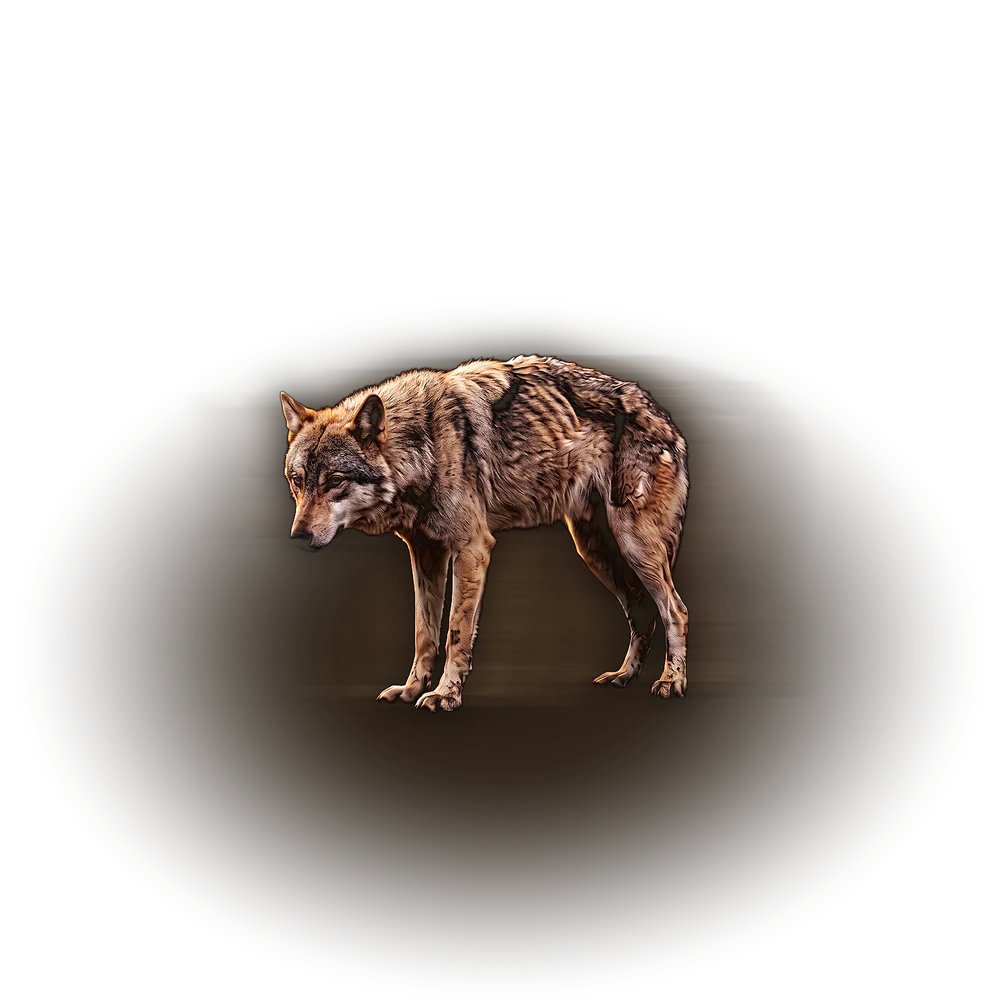
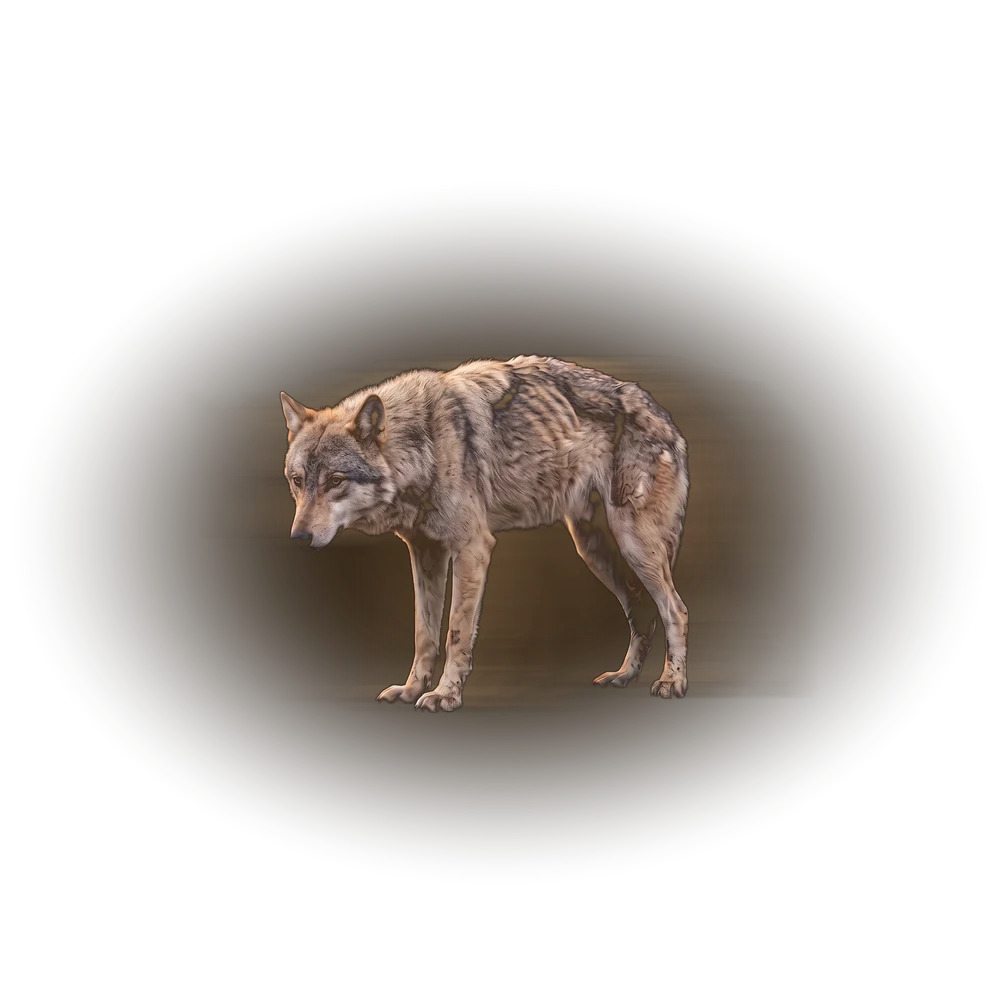
v4.7 revert frames

diff --git a/tools/process_art11.py b/tools/process_art11.py
@@ -1,0 +1,66 @@
+#!/usr/bin/env python3
+"""Round eleven: wolf + smear over a soft warm pool of light that fades out in the frame's own alpha.
+No CSS mask needed: the rim colour is close to the app plate, the alpha reaches zero well inside the
+frame, and the centre is lighter than the plate so it reads as light on the wolf, never a dark ring."""
+import os, sys, numpy as np
+from PIL import Image, ImageFilter
+ROOT = os.path.expanduser("~/Documents/wolf/img")
+ZOOM = {1: 1.04, 2: 1.02, 3: 0.97, 4: 0.98, 5: 1.00, 6: 1.03, 7: 1.06, 8: 1.10, 9: 1.14, 10: 1.18}
+S = 1520; OUT = 1000
+CENTRE = np.array([0x3E, 0x2E, 0x1C], np.float32) / 255   # warm pool under the wolf
+RIM    = np.array([0x22, 0x1A, 0x13], np.float32) / 255   # near the plate tone, where alpha runs out
+
+def hblur(a, k):
+    pad = k // 2; p = np.pad(a, ((0, 0), (pad, pad), (0, 0)), mode="edge")
+    c = np.cumsum(p, axis=1); c = np.concatenate([np.zeros_like(c[:, :1]), c], axis=1)
+    return (c[:, k:] - c[:, :-k]) / k
+
+def key(img):
+    a = np.asarray(img.convert("RGB").filter(ImageFilter.GaussianBlur(0.8)), np.float32)
+    edge = np.concatenate([a[:50].reshape(-1, 3), a[-50:].reshape(-1, 3), a[:, :50].reshape(-1, 3), a[:, -50:].reshape(-1, 3)])
+    bg = np.median(edge, axis=0)
+    d = np.sqrt(((a - bg) ** 2).sum(-1))
+    alpha = np.clip((d - 22) / 40, 0, 1)
+    alpha = np.asarray(Image.fromarray((alpha * 255).astype(np.uint8)).filter(ImageFilter.GaussianBlur(1.0)), np.float32) / 255
+    return np.asarray(img.convert("RGB"), np.float32) / 255, alpha[..., None]
+
+def pool(cy):
+    """Elliptical pool centred on the wolf: colour CENTRE->RIM, alpha 1 -> 0 with a long smooth tail."""
+    y, x = np.mgrid[0:S, 0:S].astype(np.float32)
+    r = np.sqrt(((x - S / 2) / (S * 0.50)) ** 2 + ((y - cy) / (S * 0.36)) ** 2)   # 1.0 = rim
+    t = np.clip(r, 0, 1)[..., None]; t = t * t * (3 - 2 * t)
+    col = CENTRE * (1 - t) + RIM * t
+    a = 1 - np.clip((r - 0.28) / 0.72, 0, 1); a = a * a * (3 - 2 * a)
+    return col, a[..., None]
+
+def stage(n, src, dst):
+    img = Image.open(src).convert("RGB")
+    z = ZOOM[n]; side = int(1220 * z)
+    img = img.resize((side, side), Image.LANCZOS)
+    rgb, alpha = key(img)
+    ox = (S - side) // 2; oy = max(0, min(S - side, (S - side) // 2 + int((1 - z) * 60)))
+    ys_w = np.where(alpha[..., 0].max(1) > 0.5)[0]; cy = oy + (ys_w.min() + ys_w.max()) / 2 if len(ys_w) else S / 2
+    col, acc = pool(cy); col = col.copy(); acc = acc.copy()
+    def over(lrgb, la, dx, dy, gain):
+        ys, xs = slice(oy + dy, oy + dy + side), slice(ox + dx, ox + dx + side)
+        a = la * gain
+        col[ys, xs] = col[ys, xs] * (1 - a) + lrgb * a
+        acc[ys, xs] = acc[ys, xs] + a * (1 - acc[ys, xs])
+    prem = rgb * alpha
+    grey = (prem @ np.array([0.3, 0.59, 0.11], np.float32))[..., None]
+    warm = np.array([1.0, 0.86, 0.66], np.float32)
+    for k, dx, gain in ((int(side * 0.16) | 1, min(int(side * 0.09), ox), 0.42), (int(side * 0.07) | 1, min(int(side * 0.04), ox), 0.30)):
+        g_rgb = hblur(prem * 0.45 + grey * 0.55, k) * warm; g_a = hblur(alpha, k)
+        g_col = np.where(g_a > 1e-4, g_rgb / np.maximum(g_a, 1e-4), 0)
+        over(g_col, g_a, dx, 0, gain); over(g_col, g_a, -dx // 2, 0, gain * 0.6)
+    over(rgb, alpha, 0, 0, 1.0)
+    bright = np.clip((col.mean(-1, keepdims=True) - 0.55) / 0.45, 0, 1) * col * acc
+    bl = np.asarray(Image.fromarray((np.clip(bright, 0, 1) * 255).astype(np.uint8)).filter(ImageFilter.GaussianBlur(26)), np.float32) / 255
+    col = 1 - (1 - col) * (1 - bl * 0.35)
+    out = np.concatenate([np.clip(col, 0, 1), np.clip(acc, 0, 1)], axis=-1)
+    Image.fromarray((out * 255).astype(np.uint8), "RGBA").resize((OUT, OUT), Image.LANCZOS).save(dst, "WEBP", quality=88, method=6)
+
+src_dir = sys.argv[1] if len(sys.argv) > 1 else "wolf9"
+for n in range(1, 11):
+    p = f"{ROOT}/raw/{src_dir}/{n:02d}.png"
+    if os.path.exists(p): stage(n, p, f"{ROOT}/wolf/{n:02d}.webp"); print("wolf", n)
